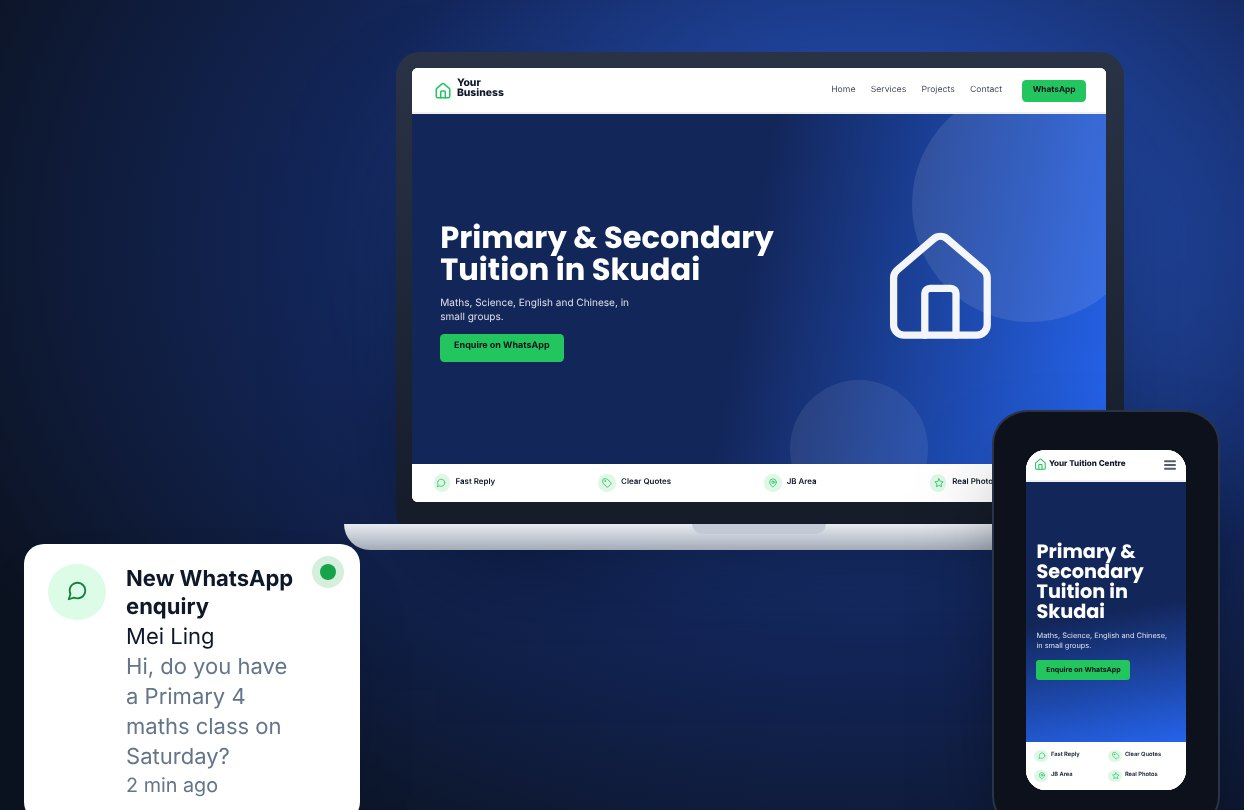
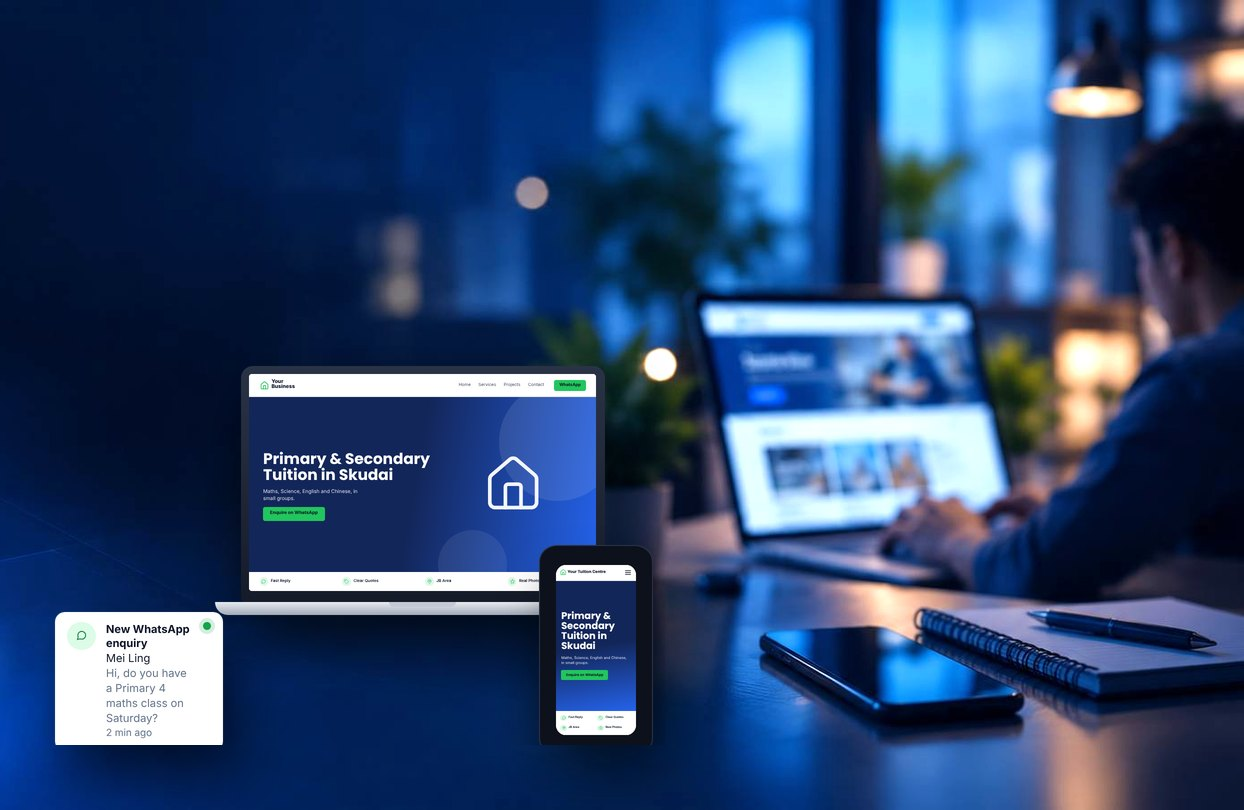
First blog: photo of a person at work as cover; card combines photo with website mock-up
Claude-Session: https://claude.ai/code/session_01MXTeS2dNo2YFZahVRoNZhp

diff --git a/site/bm/index.html b/site/bm/index.html
@@ -580,7 +580,7 @@ form.enq .estimate{padding:9px 12px;font-size:13.5px}
 .article-hero .meta img{width:40px;height:40px;border-radius:50%;object-fit:cover;border:2px solid rgba(255,255,255,.8)}
 .article-hero .meta b{color:#fff}
 .article-hero .meta .sep{opacity:.5}
-@media (max-width:900px){.article-hero.has-cover .cover{width:100%}.article-hero.has-cover::before{background:linear-gradient(180deg,rgba(11,18,32,.6),rgba(11,18,32,.92) 60%)}}
+@media (max-width:900px){.article-hero.has-cover .cover{width:100%;background-position:100% 30%}.article-hero.has-cover::before{background:linear-gradient(180deg,rgba(11,18,32,.35),rgba(11,18,32,.82) 45%,rgba(11,18,32,.94) 75%)}}
 #postView .band{background:linear-gradient(180deg,#F3F6FC,#fff 40%)}
 .article.rich{max-width:1000px}
 .article .lead-p{font-size:17.5px;max-width:44em}

diff --git a/site/index.html b/site/index.html
@@ -580,7 +580,7 @@ form.enq .estimate{padding:9px 12px;font-size:13.5px}
 .article-hero .meta img{width:40px;height:40px;border-radius:50%;object-fit:cover;border:2px solid rgba(255,255,255,.8)}
 .article-hero .meta b{color:#fff}
 .article-hero .meta .sep{opacity:.5}
-@media (max-width:900px){.article-hero.has-cover .cover{width:100%}.article-hero.has-cover::before{background:linear-gradient(180deg,rgba(11,18,32,.6),rgba(11,18,32,.92) 60%)}}
+@media (max-width:900px){.article-hero.has-cover .cover{width:100%;background-position:100% 30%}.article-hero.has-cover::before{background:linear-gradient(180deg,rgba(11,18,32,.35),rgba(11,18,32,.82) 45%,rgba(11,18,32,.94) 75%)}}
 #postView .band{background:linear-gradient(180deg,#F3F6FC,#fff 40%)}
 .article.rich{max-width:1000px}
 .article .lead-p{font-size:17.5px;max-width:44em}

diff --git a/site/zh/index.html b/site/zh/index.html
@@ -580,7 +580,7 @@ form.enq .estimate{padding:9px 12px;font-size:13.5px}
 .article-hero .meta img{width:40px;height:40px;border-radius:50%;object-fit:cover;border:2px solid rgba(255,255,255,.8)}
 .article-hero .meta b{color:#fff}
 .article-hero .meta .sep{opacity:.5}
-@media (max-width:900px){.article-hero.has-cover .cover{width:100%}.article-hero.has-cover::before{background:linear-gradient(180deg,rgba(11,18,32,.6),rgba(11,18,32,.92) 60%)}}
+@media (max-width:900px){.article-hero.has-cover .cover{width:100%;background-position:100% 30%}.article-hero.has-cover::before{background:linear-gradient(180deg,rgba(11,18,32,.35),rgba(11,18,32,.82) 45%,rgba(11,18,32,.94) 75%)}}
 #postView .band{background:linear-gradient(180deg,#F3F6FC,#fff 40%)}
 .article.rich{max-width:1000px}
 .article .lead-p{font-size:17.5px;max-width:44em}

diff --git a/src/index.src.html b/src/index.src.html
@@ -547,7 +547,7 @@ form.enq .estimate{padding:9px 12px;font-size:13.5px}
 .article-hero .meta img{width:40px;height:40px;border-radius:50%;object-fit:cover;border:2px solid rgba(255,255,255,.8)}
 .article-hero .meta b{color:#fff}
 .article-hero .meta .sep{opacity:.5}
-@media (max-width:900px){.article-hero.has-cover .cover{width:100%}.article-hero.has-cover::before{background:linear-gradient(180deg,rgba(11,18,32,.6),rgba(11,18,32,.92) 60%)}}
+@media (max-width:900px){.article-hero.has-cover .cover{width:100%;background-position:100% 30%}.article-hero.has-cover::before{background:linear-gradient(180deg,rgba(11,18,32,.35),rgba(11,18,32,.82) 45%,rgba(11,18,32,.94) 75%)}}
 #postView .band{background:linear-gradient(180deg,#F3F6FC,#fff 40%)}
 .article.rich{max-width:1000px}
 .article .lead-p{font-size:17.5px;max-width:44em}
